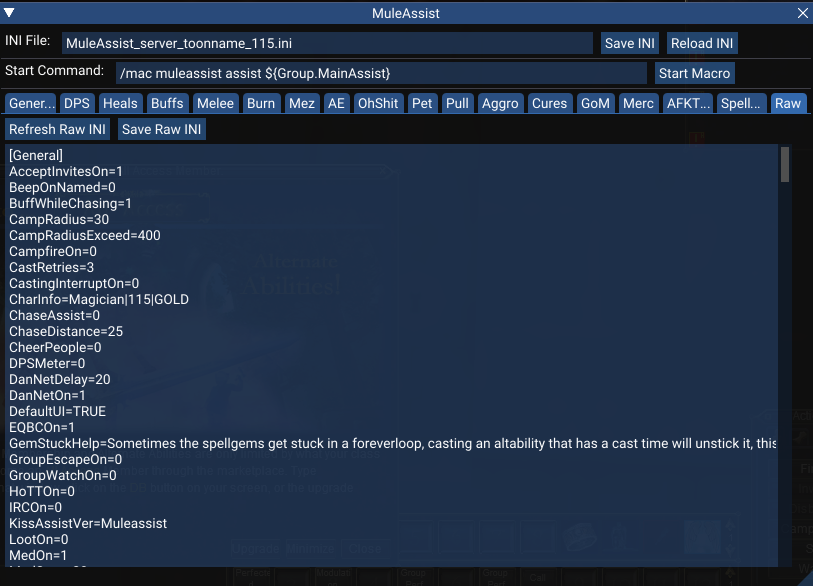
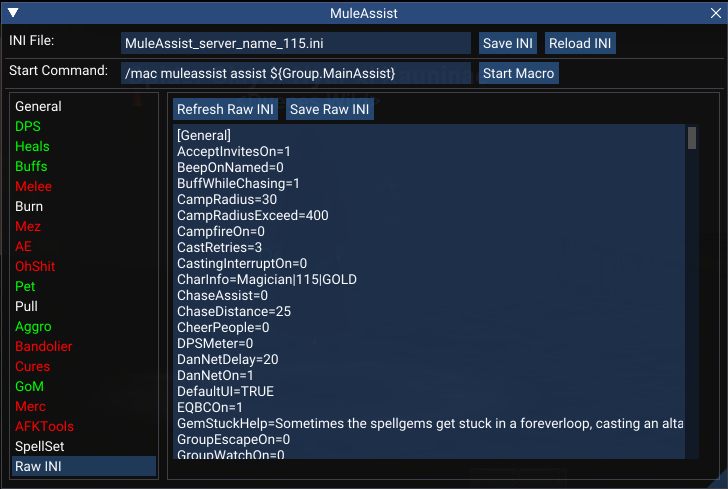
0.3 updates

diff --git a/README.md b/README.md
@@ -11,8 +11,23 @@ Create a folder in the MQ `lua` folder, such as `ma`, and add the contents of th
 Start the UI with `/lua run ma\start`, or replace `ma` with whatever you named the new folder in your MQ `lua` folder.
 
 ## Examples
+bufftab.png  dpstab.png  general.png  rawINItab.png  selecteditem.png  spellpicker.png  spellupgrade.png
+
+Navigate between INI sections from the left menu. Sections which can be enabled or disabled in the INI will be either green or red to indicate whether they are enabled or disabled.
+
+![](images/general.png)
 
 ![](images/bufftab.png)
 
+The INI file content can be edited directly by selecting `Raw INI` from the left menu. Note the separate save buttons when editing the raw INI.
+
 ![](images/rawINItab.png)
+
+Spells which have upgraded versions available in the spellbook will have an upgrade button when they are selected.
+
+![](images/spellupgrade.png)
+
+Right clicking a button will open a context menu to select a spell, AA or disc.
+
+![](images/spellpicker.png)
 
